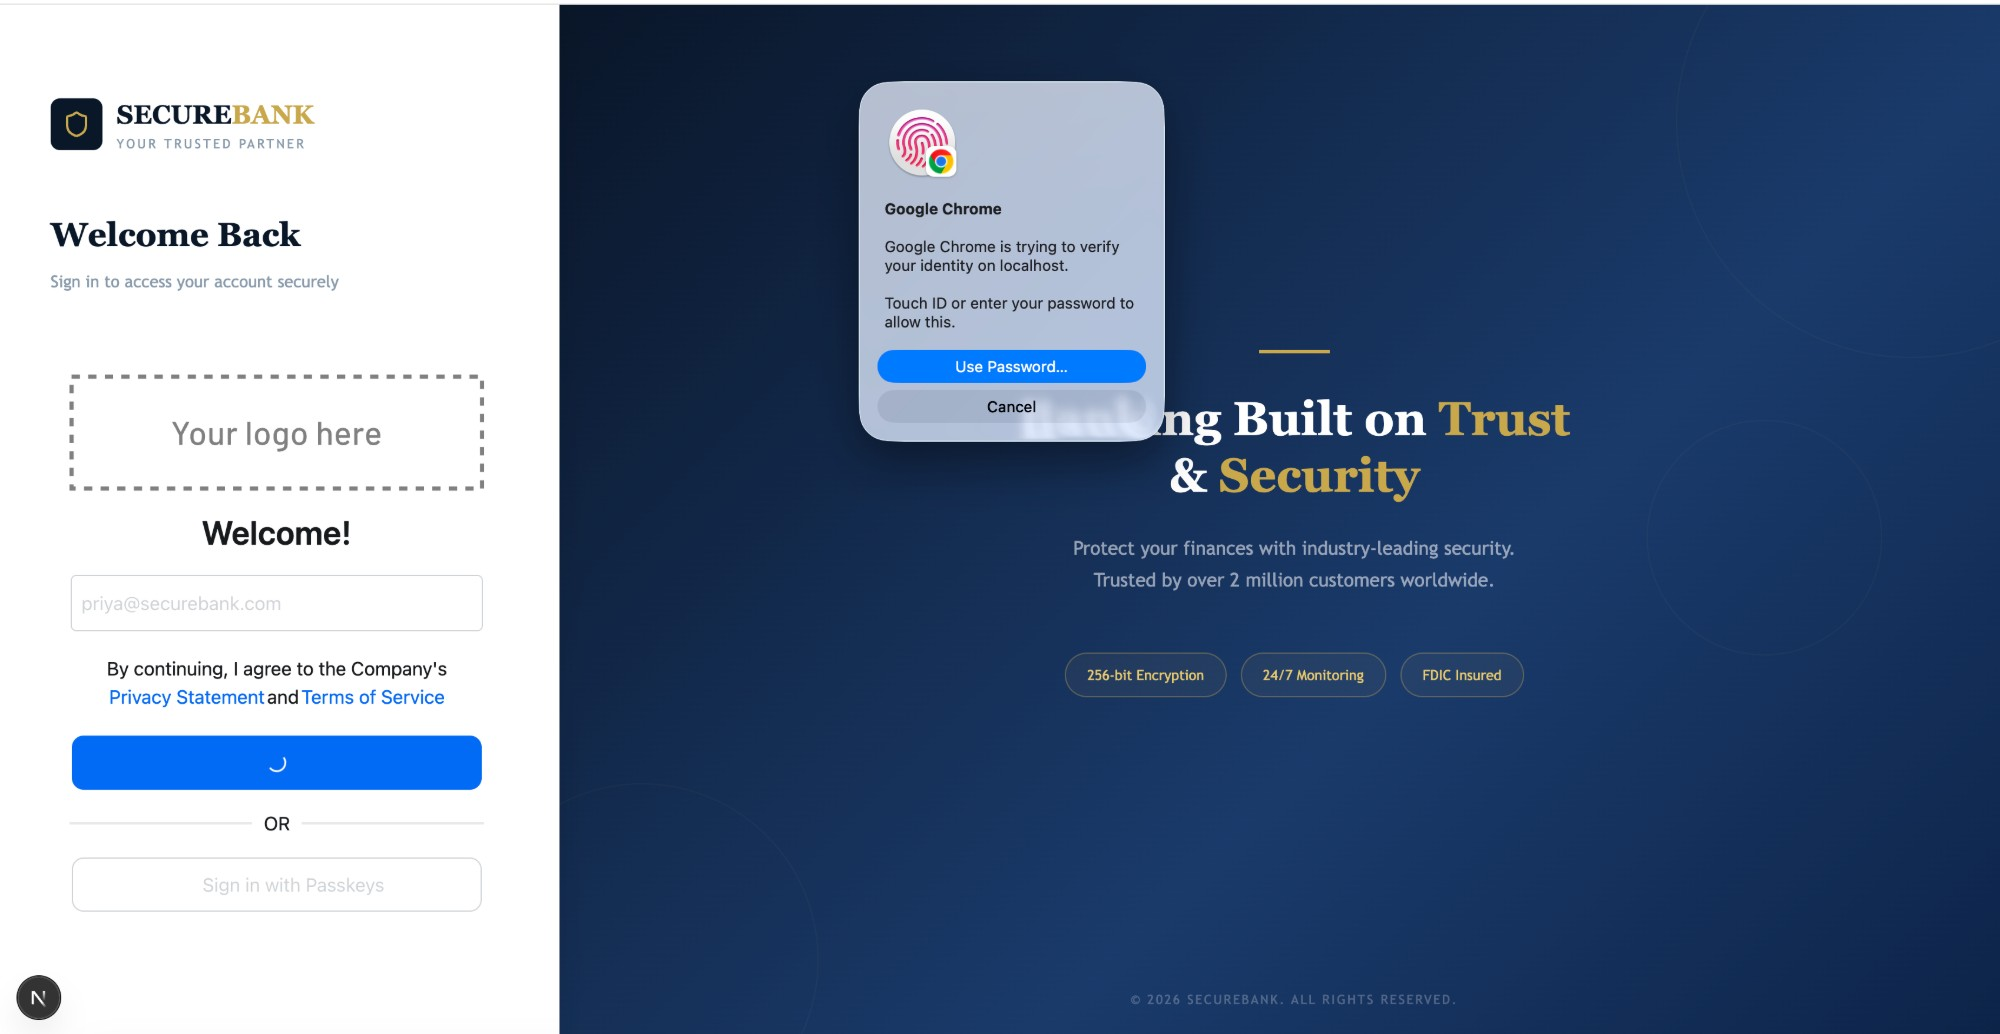
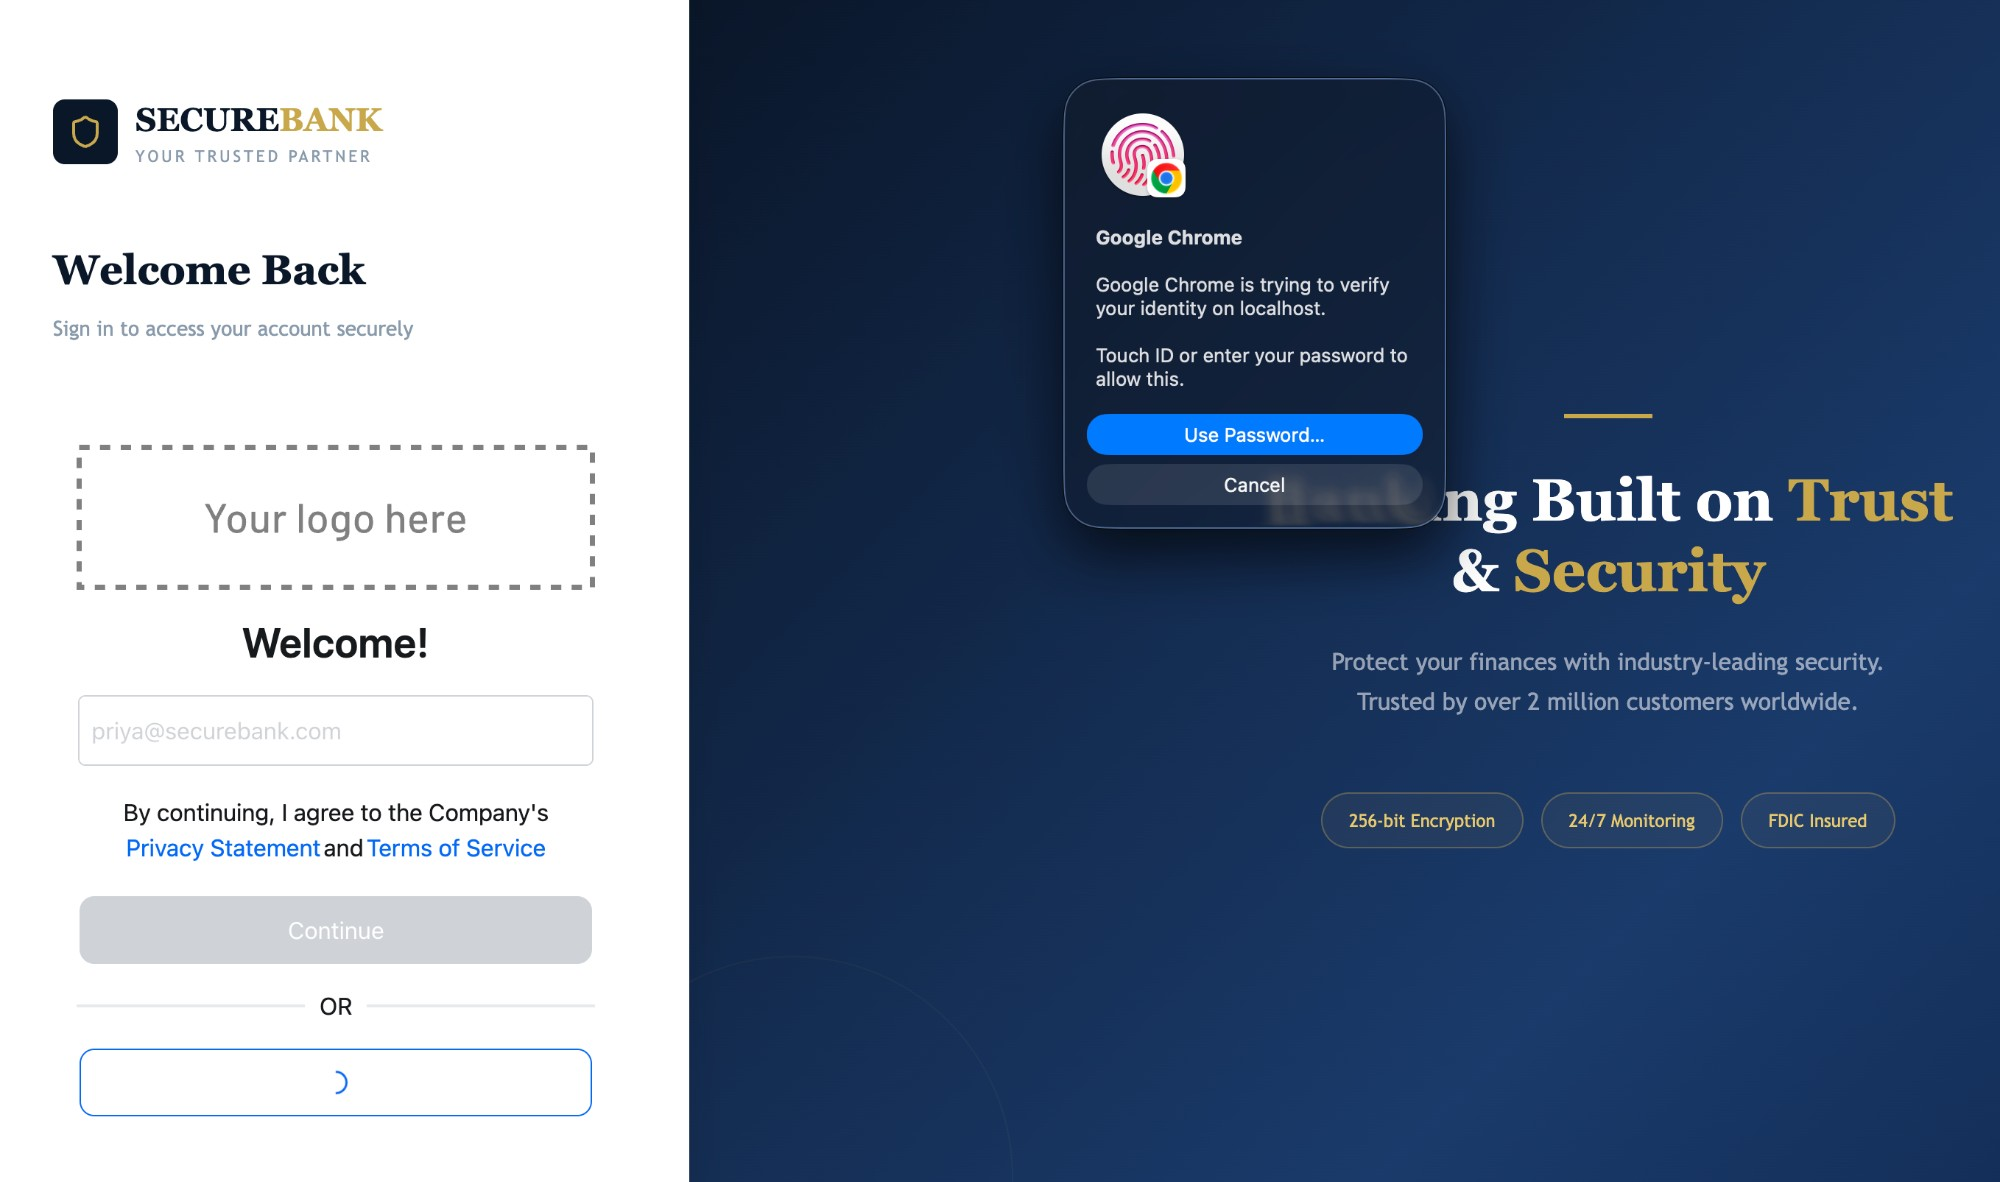
Add UC4 Scenario 3 screenshots and update lab guide

diff --git a/LAB_GUIDE.md b/LAB_GUIDE.md
@@ -1108,11 +1108,33 @@ Alex can enroll or skip. Either way, he lands on the dashboard:
 
 Enter an email address that doesn't exist in Descope yet (e.g. a personal email you have access to). Click Continue. The flow detects the user doesn't exist and sends a magic link:
 
-> _No screenshot needed — the flow shows a "We've sent a verification link to [email]" screen_
+> ![Magic link sent confirmation screen](screenshots/uc4-07-magic-link-sent.png)
 
-Click the link in the email. The flow asks for a full name (required for new accounts), then checks if your device supports passkeys. If it does, it shows the "Configure Passkeys?" prompt — same screen Alex saw. Enroll or skip. You'll land on the "You're authenticated" confirmation screen (Descope's default for new-user signup, before your app has a profile for them).
+Check your inbox. You'll receive an email from Descope — the body references your Descope project name (not "SecureBank"), which is expected for a development project:
 
-> **Note:** New users created this way won't have a balance or transactions in SecureBank because `lib/data.ts` only has entries for Priya and Alex. That's expected — this scenario just demonstrates that the flow handles first-time signups cleanly without any extra code.
+> ![Magic link email with Click Here button](screenshots/uc4-08-magic-link-email.png)
+
+Click **Click Here**. The flow opens back in the browser and asks for a full name to complete signup:
+
+> ![Full name collection screen](screenshots/uc4-09-new-user-full-name.png)
+
+Enter your name and click **Submit**. The flow then checks if your device supports passkeys and shows the enrollment prompt:
+
+> ![Configure Passkeys prompt for new user](screenshots/uc4-10-new-user-configure-passkeys.png)
+
+If you click **Add passkeys**, your OS will show a biometric dialog (Touch ID on Mac, Windows Hello on PC):
+
+> ![Chrome biometric prompt for passkey enrollment](screenshots/uc4-10b-new-user-passkey-biometric-prompt.jpg)
+
+Enroll or click **Not now, maybe later** to skip. Either way, you land on the new-user welcome screen:
+
+> ![Welcome to SecureBank confirmation screen for new user](screenshots/uc4-11-new-user-welcome.png)
+
+To verify, go to **Console → Users** — your new account should appear as **Active** alongside Priya and Alex:
+
+> ![Console Users list showing all three users](screenshots/uc4-12-console-three-users.png)
+
+> **Note:** New users won't have a balance or transactions because `lib/data.ts` only has entries for Priya and Alex. That's expected — this scenario demonstrates the flow handles first-time signups cleanly without any extra code.
 
 ✅ **Use Case 4 complete.** One flow now handles every user state: passkey login for enrolled users, password + inline enrollment for returning users without passkeys, and magic link + name collection for brand-new signups. The dashboard is clean — no authentication logic. The `promote-passkeys` flow and the dashboard modal are gone.
 
